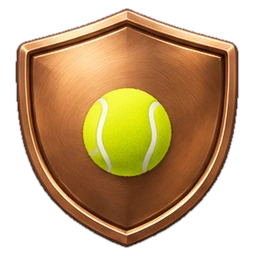
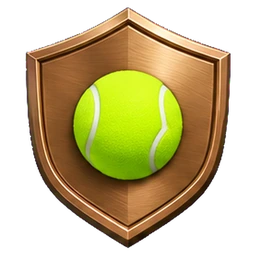
Escudos XP: versão sobre magenta e @2x nítido no topo da página do XP
- public/xp: os 10 escudos refeitos sobre magenta a 21 out (bordos limpos,
  design-handoff/2026-10-16-escudos-niveis-xp/v-magenta-21out/app), mais @2x de 512 px
- XpShield.jsx: srcSet 1x/2x acima de 64 px (topo do XP, 104 px)
- sem textos novos, sem migração

diff --git a/src/components/XpShield.jsx b/src/components/XpShield.jsx
@@ -2,8 +2,10 @@ import { useState } from 'react'
 import { XP_TIERS } from '../lib/xp'
 
 /* Escudos dos 10 níveis de XP (design-handoff/2026-10-16-escudos-niveis-xp,
-   aprovado pelo Francisco a 16 out). Imagens de 256 px em public/xp; lêem-se
-   de 20 a 104 px. O nome do nível está sempre ao lado, por isso alt vazio.
+   aprovado pelo Francisco a 16 out; refeitos sobre magenta a 21 out). Imagens
+   de 256 px em public/xp e as de 512 (@2x) para os tamanhos acima de 64 px,
+   como o topo da página do XP (104 px), para ficarem nítidas no telemóvel.
+   O nome do nível está sempre ao lado, por isso alt vazio.
    Se a imagem falhar, fica a bola de cor de sempre (dotClass), sem buraco.
    `dim`: nível que ainda não tens — cinzento e meio apagado. */
 export default function XpShield({ tierKey, size = 32, dim = false, className = '', style }) {
@@ -20,7 +22,8 @@ export default function XpShield({ tierKey, size = 32, dim = false, className = 
     )
   }
   return (
-    <img src={`/xp/escudo-${tier.key}.webp`} alt="" width={size} height={size} loading="lazy" draggable="false"
+    <img src={`/xp/escudo-${tier.key}.webp`} srcSet={size > 64 ? `/xp/escudo-${tier.key}.webp 1x, /xp/escudo-${tier.key}@2x.webp 2x` : undefined}
+      alt="" width={size} height={size} loading="lazy" draggable="false"
       onError={() => setFailed(true)} className={`shrink-0 select-none object-contain ${className}`}
       style={{ width: size, height: size, ...dimStyle, ...style }} />
   )
